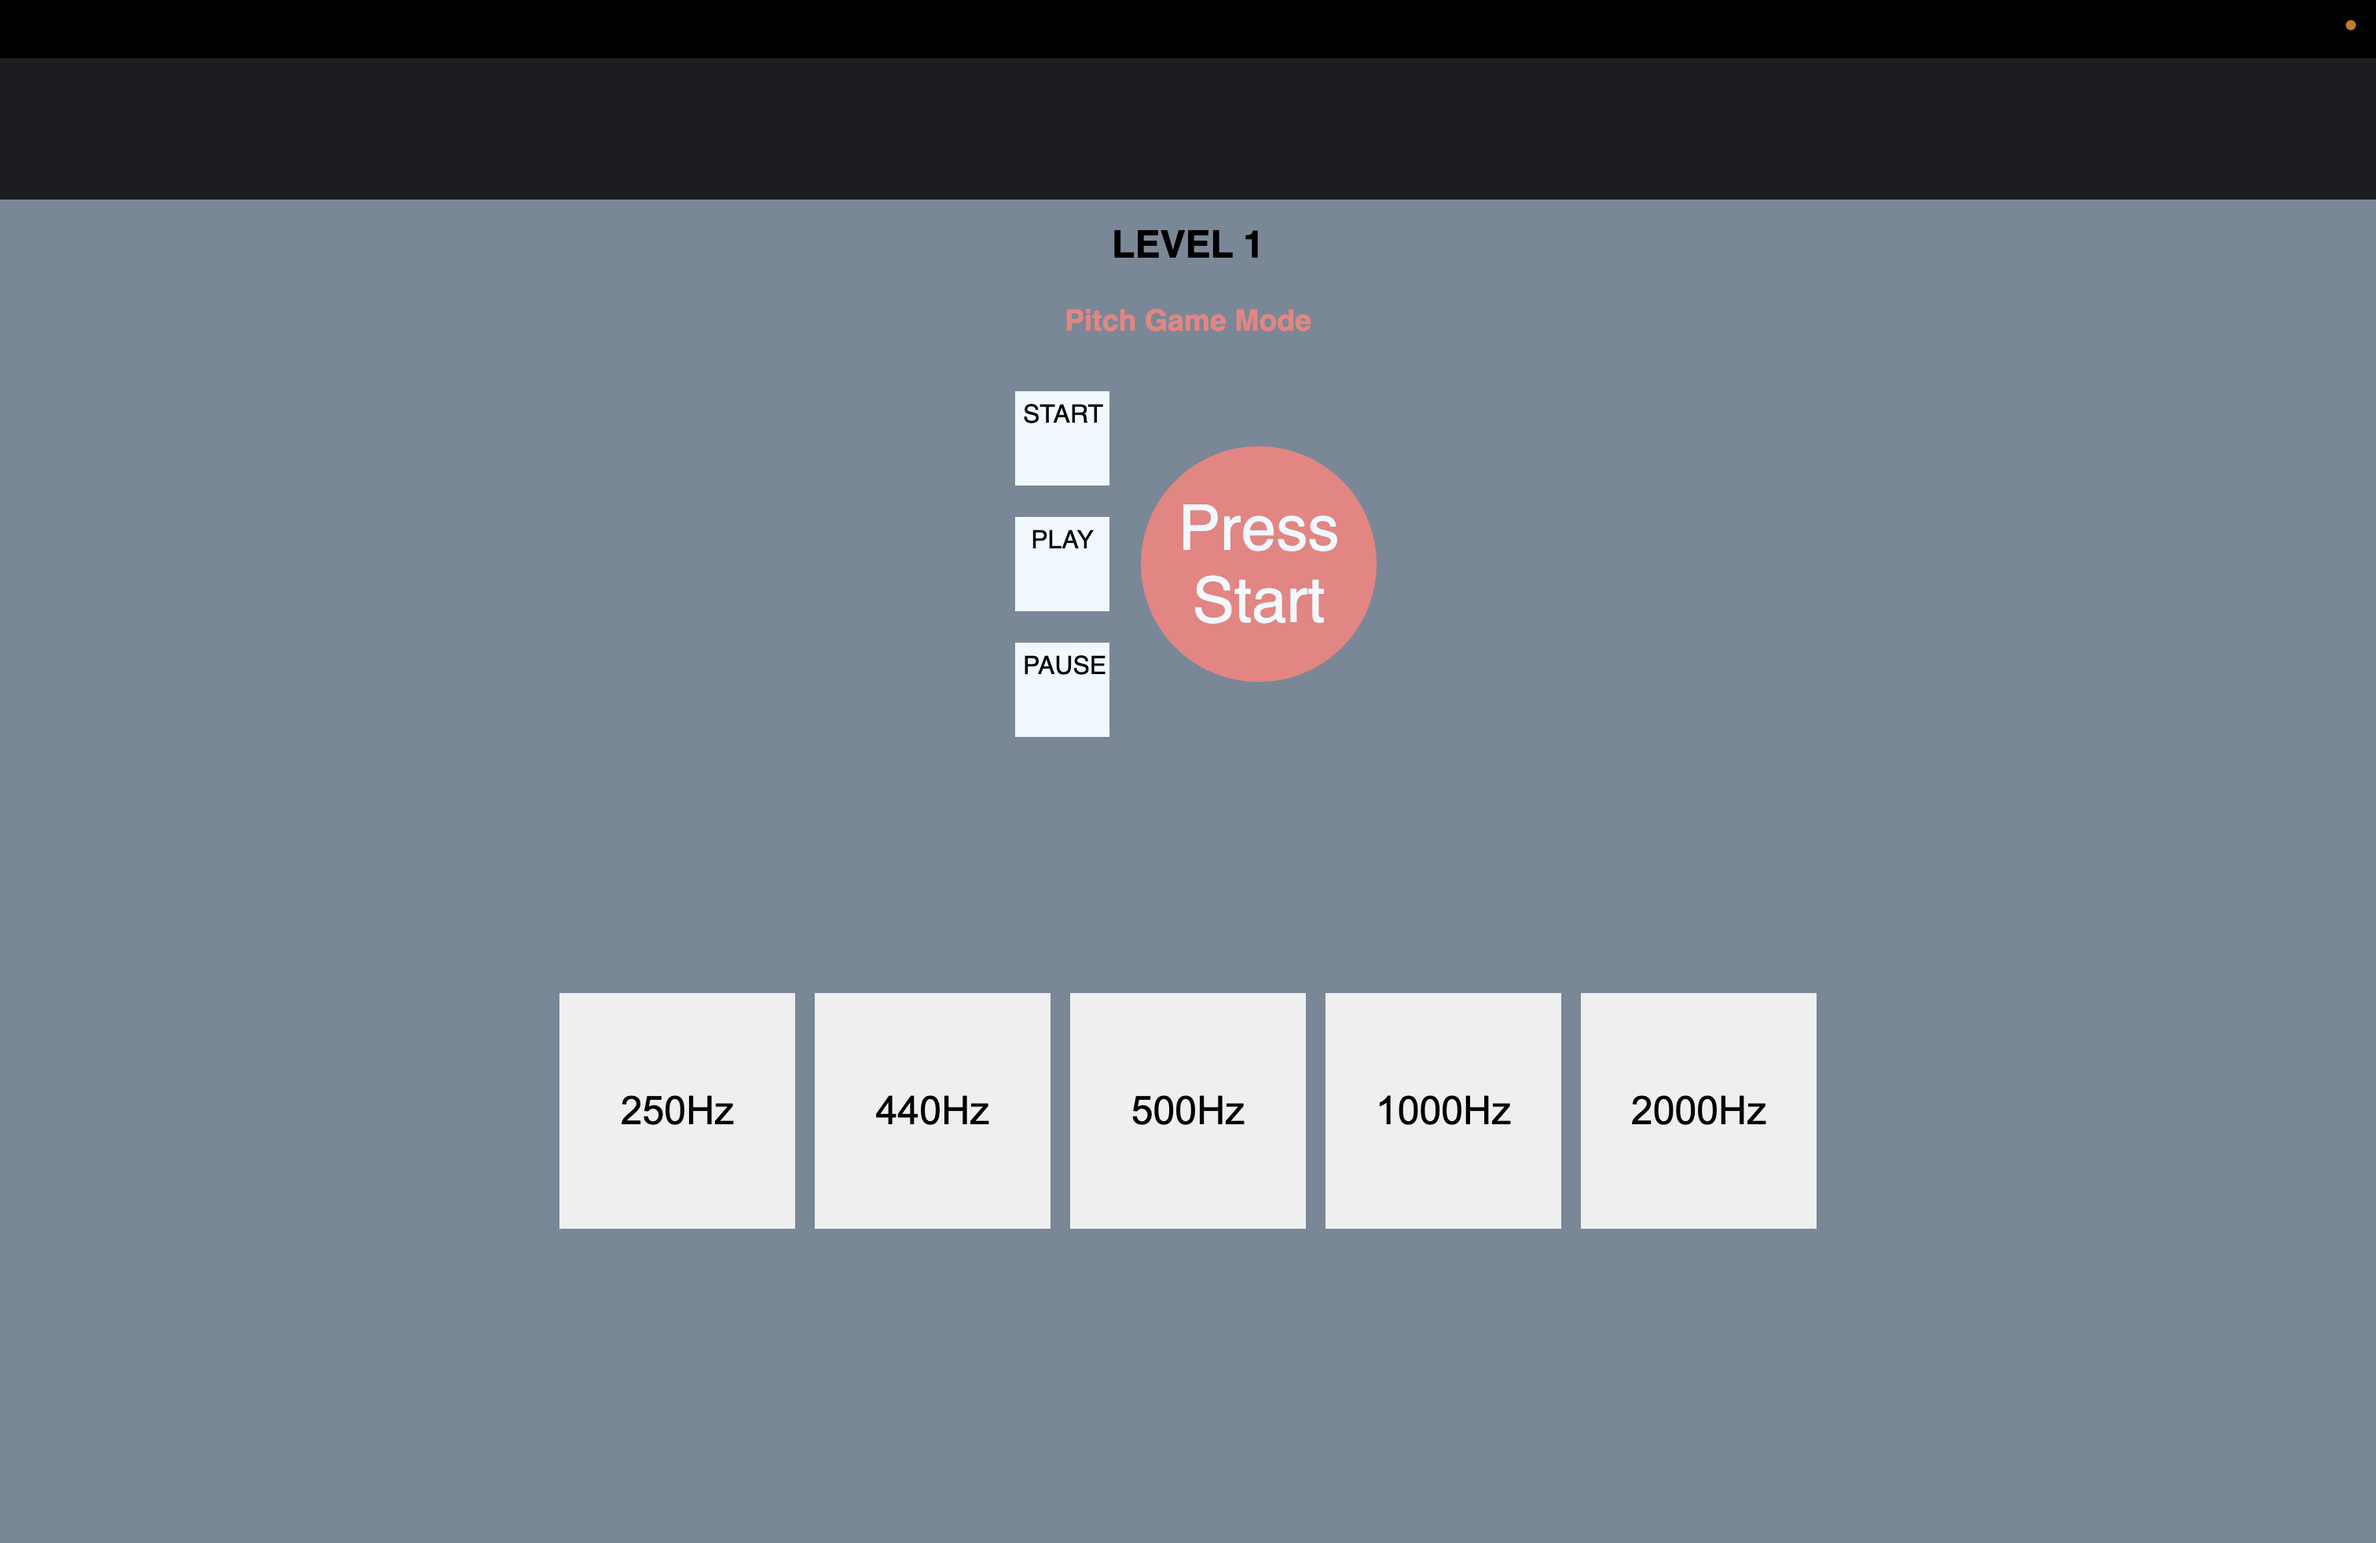
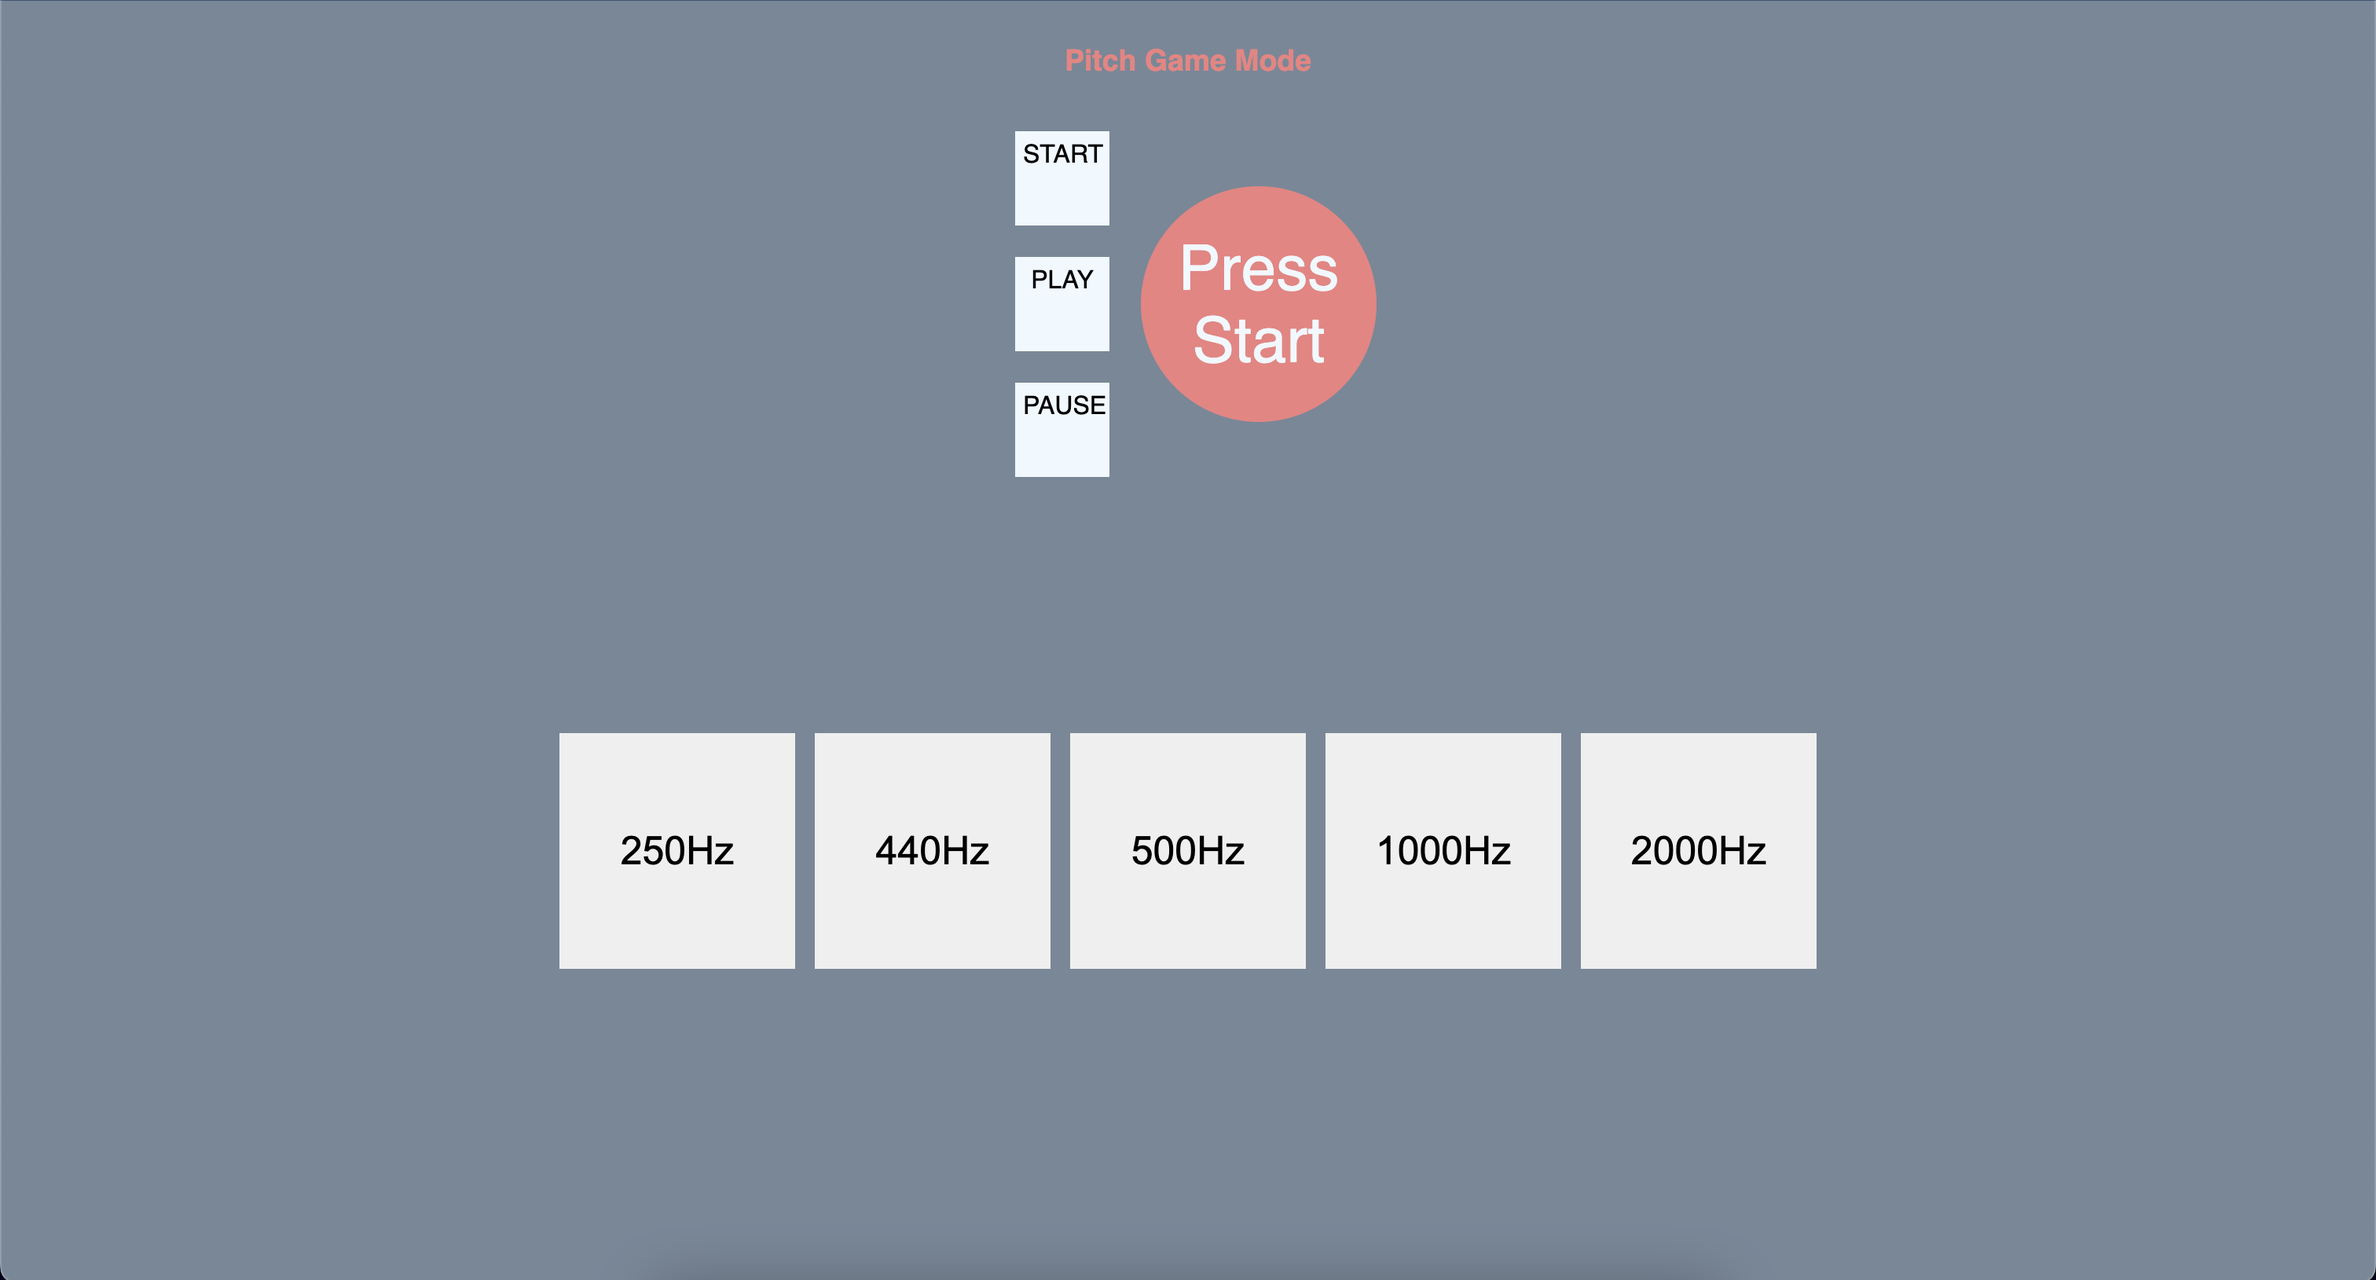
edited readMe

Changed region(s): [[0.0, 0.0, 1.0, 1.0], [0.2176, 0.5525, 0.7771, 0.6753], [0.2176, 0.706, 0.7771, 0.798]]

diff --git a/README.md b/README.md
@@ -42,6 +42,14 @@ A Trello board was used to keep track of development progress and can be viewed 
 
 ![Frequency Game Mode](/Photos/FREQ_GAME_MODE.png)
 
+#### Pitch Game Mode
+
+![Pitch Game Mode](/Photos/PITCH_GAME_MODE.png)
+
+#### Game Over Screen
+
+![Game Over Screen](/Photos/GAME_OVER_SCREEN.png)
+
 ---
 
 ## **_Task List_**
